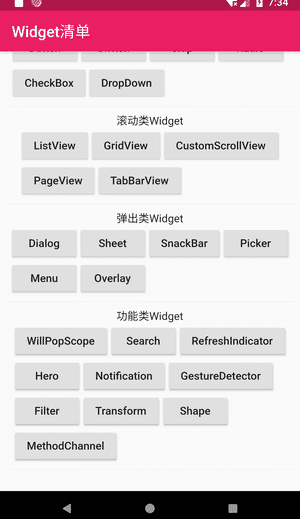
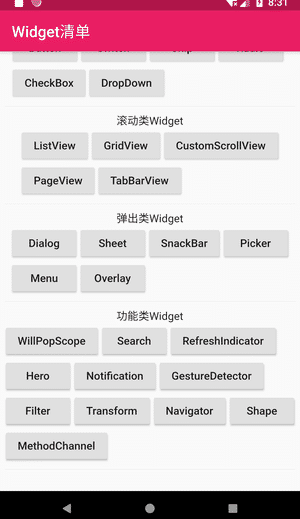
Navigator局部路由

diff --git a/lib/pages/navigator_page.dart b/lib/pages/navigator_page.dart
@@ -1,0 +1,83 @@
+import 'package:flutter/material.dart';
+
+class NavigatorPage extends StatefulWidget {
+  @override
+  _NavigatorPageState createState() => _NavigatorPageState();
+}
+
+class _NavigatorPageState extends State<NavigatorPage> {
+  @override
+  Widget build(BuildContext context) {
+    return Scaffold(
+      appBar: AppBar(
+        title: Text('Navigator'),
+      ),
+      body: Column(
+        children: <Widget>[
+          Text('Navigator的高度为infinity'),
+          Text('如果直接父级非最上级也是infinity会产生异常'),
+          Container(
+            height: 333,
+            color: Colors.amber.withAlpha(111),
+            child: Navigator( // Navigator
+              initialRoute: '/abc',
+              onGenerateRoute: (val) {
+                RoutePageBuilder builder;
+                switch (val.name) {
+                  case '/abc':
+                    builder = (BuildContext nContext, Animation<double> animation, Animation<double> secondaryAnimation) => Column(
+                      // 并没有在 MaterialApp 中设定 /efg 路由
+                      // 因为Navigator的特性 使用nContext 可以跳转 /efg
+                      children: <Widget>[
+                        Text('呵呵呵'),
+                        RaisedButton(
+                          child: Text('去 /efg'),
+                          onPressed: () {
+                            Navigator.pushNamed(nContext, '/efg');
+                          },
+                        )
+                      ],
+                    );
+                  break;
+                  case '/efg':
+                    builder = (BuildContext nContext, Animation<double> animation, Animation<double> secondaryAnimation) => Row(
+                      children: <Widget>[
+                        RaisedButton(
+                          child: Text('去 /hhh'),
+                          onPressed: () {
+                            Navigator.pushNamed(nContext, '/hhh');
+                          },
+                        )
+                      ],
+                    );
+                  break;
+                  default:
+                    builder = (BuildContext nContext, Animation<double> animation, Animation<double> secondaryAnimation) => Center(
+                      child: RaisedButton(
+                        child: Text('去 /abc'),
+                        onPressed: () {
+                          Navigator.pushNamed(nContext, '/abc');
+                        },
+                      )
+                    );
+                }
+                return PageRouteBuilder(
+                  pageBuilder: builder,
+                  // transitionDuration: const Duration(milliseconds: 0),
+                );
+              },
+              onUnknownRoute: (val) {
+                print(val);
+              },
+              observers: <NavigatorObserver>[]
+            ),
+          ),
+          Text('Navigator执行寻找路由顺序'),
+          Text('initialRoute'),
+          Text('onGenerateRoute'),
+          Text('onUnknownRoute'),
+        ],
+      ),
+    );
+  }
+}

diff --git a/lib/routes/my_router.dart b/lib/routes/my_router.dart
@@ -45,6 +45,7 @@ import 'package:flutter_ui/pages/overlay_page.dart';
 import 'package:flutter_ui/pages/circle_avatar_page.dart';
 import 'package:flutter_ui/pages/refresh_indicator_page.dart';
 import 'package:flutter_ui/pages/method_channel_page.dart';
+import 'package:flutter_ui/pages/navigator_page.dart';
 
 class MyRouter {
 
@@ -109,6 +110,7 @@ class MyRouter {
     '/GestureDetector_page': (context) => GestureDetectorPage(),
     '/Filter_page': (context) => FilterPage(),
     '/Transform_page': (context) => TransformPage(),
+    '/Navigator_page': (context) => NavigatorPage(),
     '/Shape_page': (context) => ShapePage(),
     '/MethodChannel_page': (context) => MethodChannelPage(),
   };
